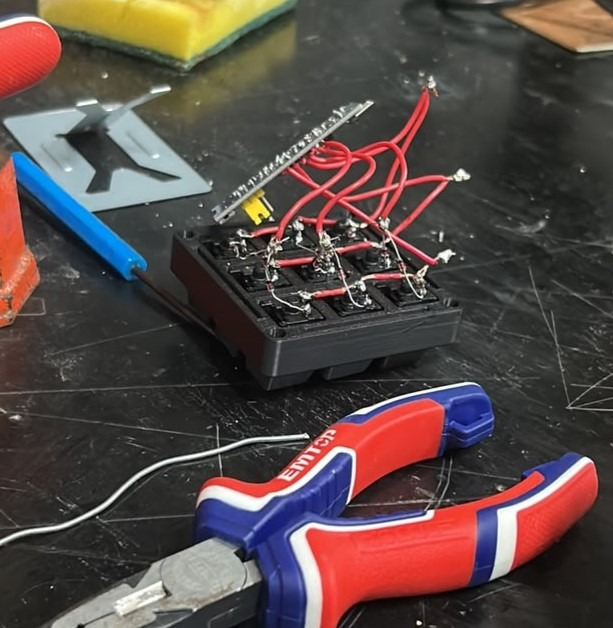
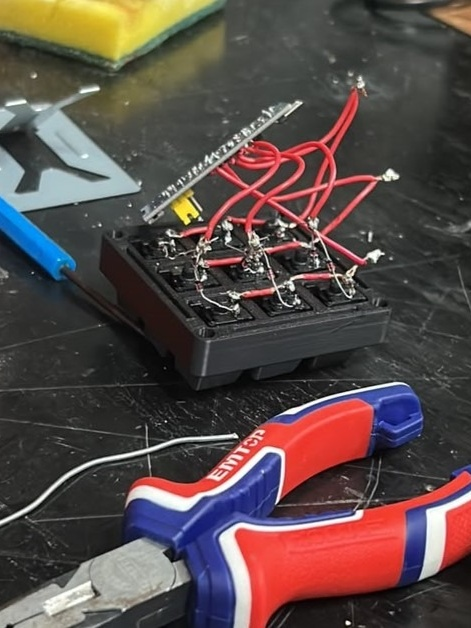
Style: Cropped assembly photo to 3:4 aspect ratio and aligned image heights in README

diff --git a/README.md b/README.md
@@ -1,8 +1,8 @@
 # 🎛 StreamDeck-Embeeded-System
 
 <p align="center">
-  <img src="streamdeck_hardware.png" alt="StreamDeck Hardware STM32 BluePill Pronto" width="400" style="border-radius: 12px; box-shadow: 0 8px 24px rgba(0,0,0,0.4); margin-right: 10px;">
-  <img src="streamdeck_assembly.jpg" alt="StreamDeck Processo de Montagem e Soldagem" width="400" style="border-radius: 12px; box-shadow: 0 8px 24px rgba(0,0,0,0.4);">
+  <img src="streamdeck_hardware.png" alt="StreamDeck Hardware STM32 BluePill Pronto" height="380" style="border-radius: 12px; box-shadow: 0 8px 24px rgba(0,0,0,0.4); margin-right: 12px; vertical-align: middle;">
+  <img src="streamdeck_assembly.jpg" alt="StreamDeck Processo de Montagem e Soldagem" height="380" style="border-radius: 12px; box-shadow: 0 8px 24px rgba(0,0,0,0.4); vertical-align: middle;">
 </p>
 
 <p align="center">
@@ -112,7 +112,7 @@ StreamDeck-Embeeded-System/
 │   ├── streamdeck_hotkeys.ahk # Script AutoHotkey v2 para atalhos do Windows
 │   └── streamdeck_listener.py# Listener em Python para log de teclado no terminal
 ├── streamdeck_hardware.png   # Foto do hardware finalizado
-└── streamdeck_assembly.jpg   # Foto do processo de soldagem e montagem
+└── streamdeck_assembly.jpg   # Foto do processo de soldagem e montagem (proporção 3:4)
 ```
 
 ---
